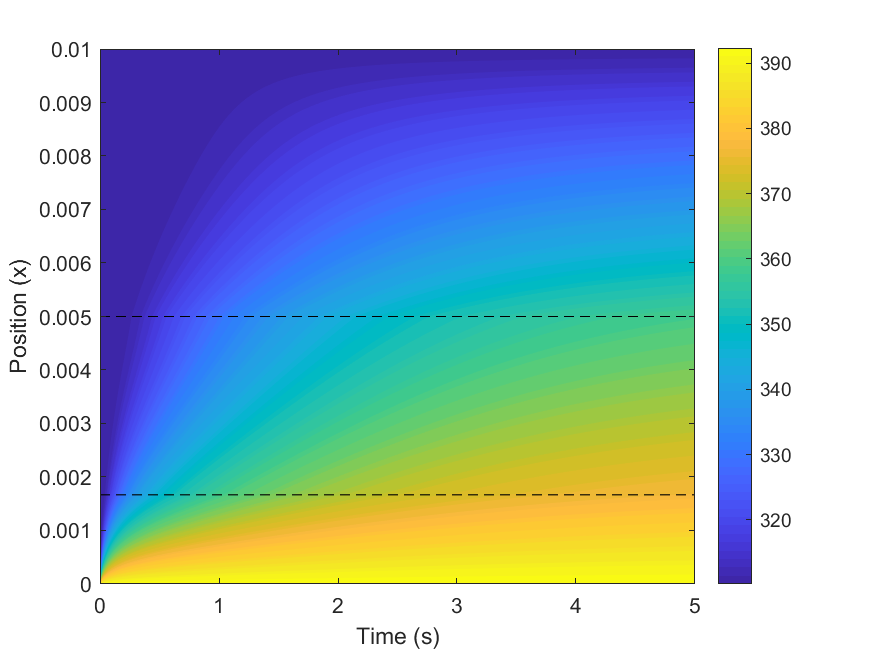
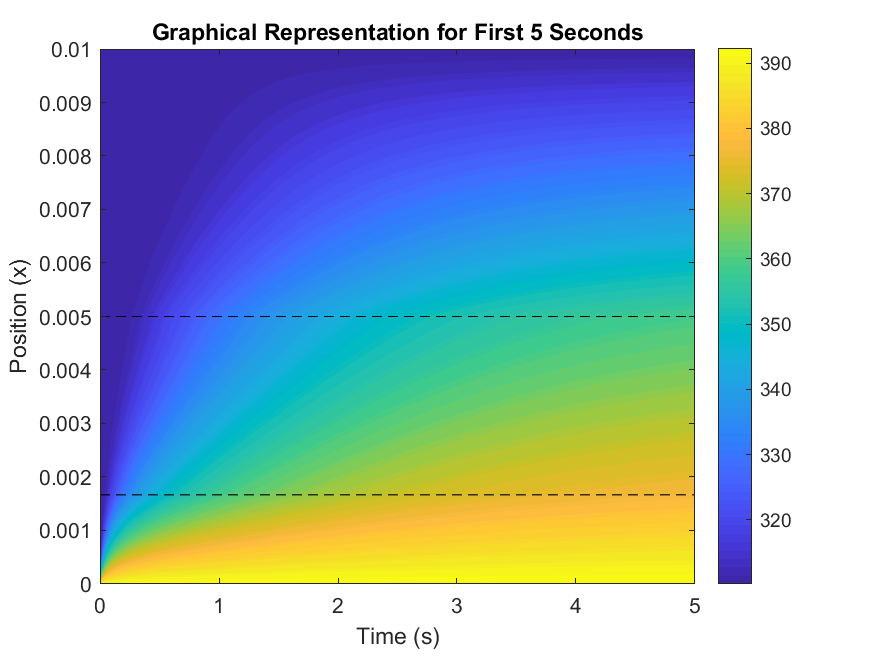
Fix various titles and graph formatting.

Changed region(s): [[0.1543, 0.0305, 0.7406, 0.061]]

diff --git a/part2ci.m b/part2ci.m
@@ -15,16 +15,24 @@ P2C.f.coef=[[0,Skin.E.HS];[Skin.E.xend,Skin.D.HS*Skin.D.Tb];[Skin.D.xend,Skin.B.
 P2C.Transient.Time=50;
 P2C.Transient.Theta=1;
 P2C.Transient.dt=0.005;
-P2C.BCS.D=[[393.15,0];[310.15,0.01];];
+P2C.BCS.D=[[328.65,0];[310.15,0.01];];
 P2C.ConstantInit(310.15);
 P2C.basisType='Quad';
 P2C.Solve(false);
 changeTime=P2C.PlotAtTime([0.05,0.5,2,5,50]);
 figure(changeTime);
 plotSkin;
+disp(['Gamma: ' num2str(calculateBurn(P2C))]);
+title(['Transient Numerical Solution - Theta: ' num2str(P2C.Transient.Theta) ', dt: ' num2str(P2C.Transient.dt) ' Using ' P2C.basisType ' Basis Functions']);
 saveas(changeTime,['status/cw2/timeoverview_2ci_theta_' num2str(P2.basisType) '_' P2.basisType '.png']);
 contor2ci=figure();
 [x,y,z] = generateTransientProfile(P2C,5);
 contourf(x,y,z,100,'ShowText','off','LineColor','none');
+colorbar;
+hline([Skin.E.xend,Skin.D.xend],'k--');
+xlabel('Time (s)');
+ylabel('Position (x)');
+zlabel('Temperature');
+title('Graphical Representation for First 5 Seconds');
 saveas(contor2ci,['status/cw2/contor2ci_' P2C.basisType '.png']);
 gamma=calculateBurn(P2C);

diff --git a/part2a.m b/part2a.m
@@ -21,7 +21,7 @@ changeTime=P2.PlotAtTime([0.05,0.5,2,5,50]);
 figure(changeTime);
 plotSkin;
 disp(['Gamma: ' num2str(calculateBurn(P2))]);
-title(['Transient Numerical Solution - Theta: ' num2str(P2.Transient.Theta) ', dt: ' num2str(P2.Transient.Theta) ' Using ' P2.basisType ' Basis Functions']);
+title(['Transient Numerical Solution - Theta: ' num2str(P2.Transient.Theta) ', dt: ' num2str(P2.Transient.dt) ' Using ' P2.basisType ' Basis Functions']);
 saveas(changeTime,['status/cw2/timeoverview_2a_theta_' num2str(P2.Transient.Theta) '_' P2.basisType '.png']);
 contor2ai=figure();
 [x,y,z] = generateTransientProfile(P2,5);
@@ -31,5 +31,6 @@ hline([Skin.E.xend,Skin.D.xend],'k--');
 xlabel('Time (s)');
 ylabel('Position (x)');
 zlabel('Temperature');
+title('Graphical Representation for First 5 Seconds');
 saveas(contor2ai,['status/cw2/contor2ai_' P2.basisType '.png']);
 gamma=calculateBurn(P2);

diff --git a/part2Comparison.m b/part2Comparison.m
@@ -28,5 +28,5 @@ grid on;
 xlabel('Position (x)');
 ylabel('c(x,t)');
 legend('Location','Northeast');
-title(['Transient Solution Comparison - Theta: ' num2str(P2.Transient.Theta) ', dt: ' num2str(P2.Transient.Theta) ' Using ' P2.basisType ' Basis Functions']);
+title(['Transient Solution Comparison - Theta: ' num2str(P2.Transient.Theta) ', dt: ' num2str(P2.Transient.dt) ' Using ' P2.basisType ' Basis Functions']);
 disp('Adjust legend accordingly and save in figure.');
